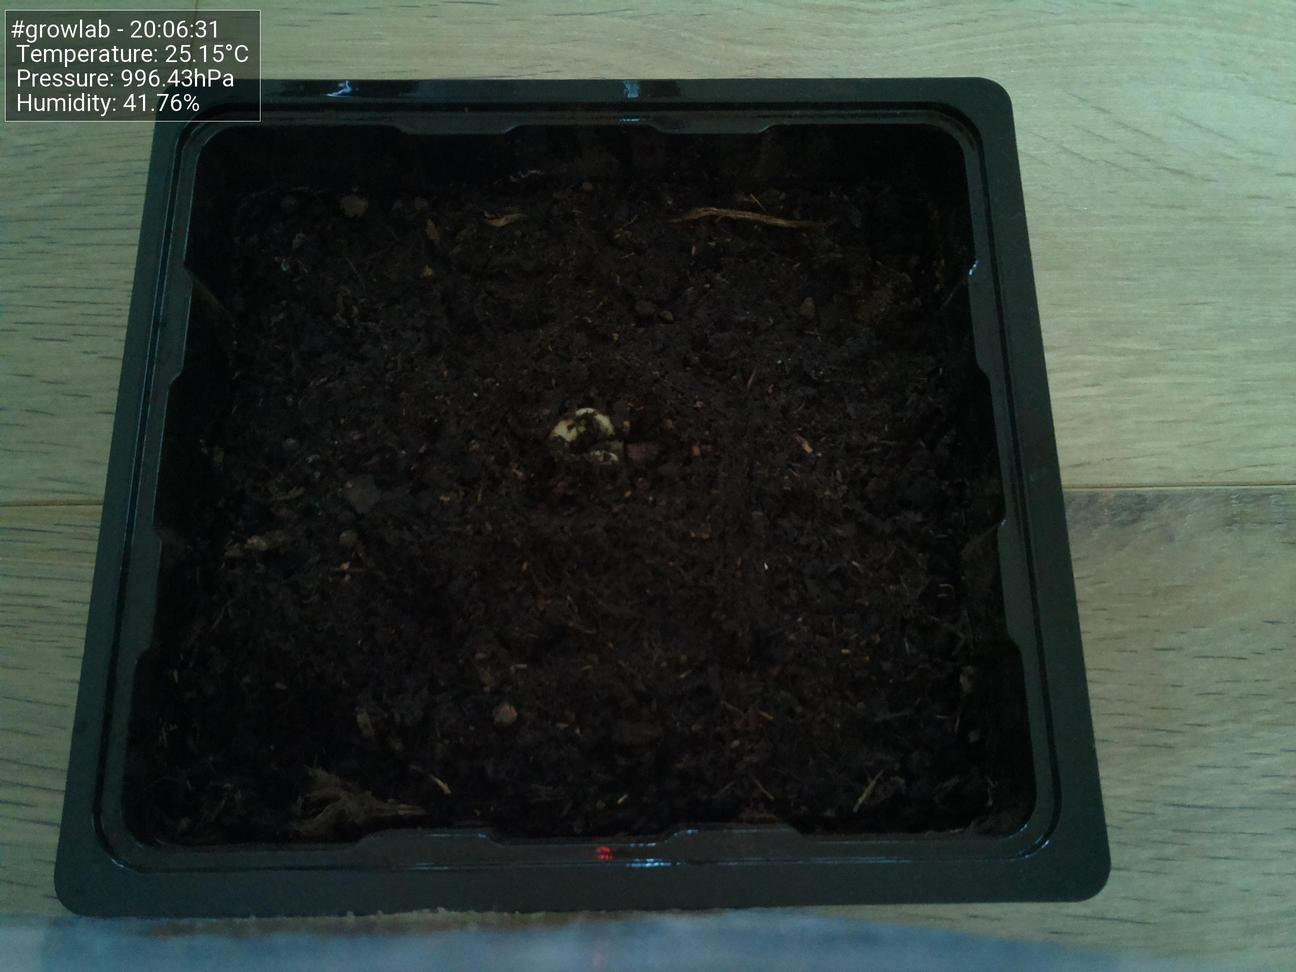
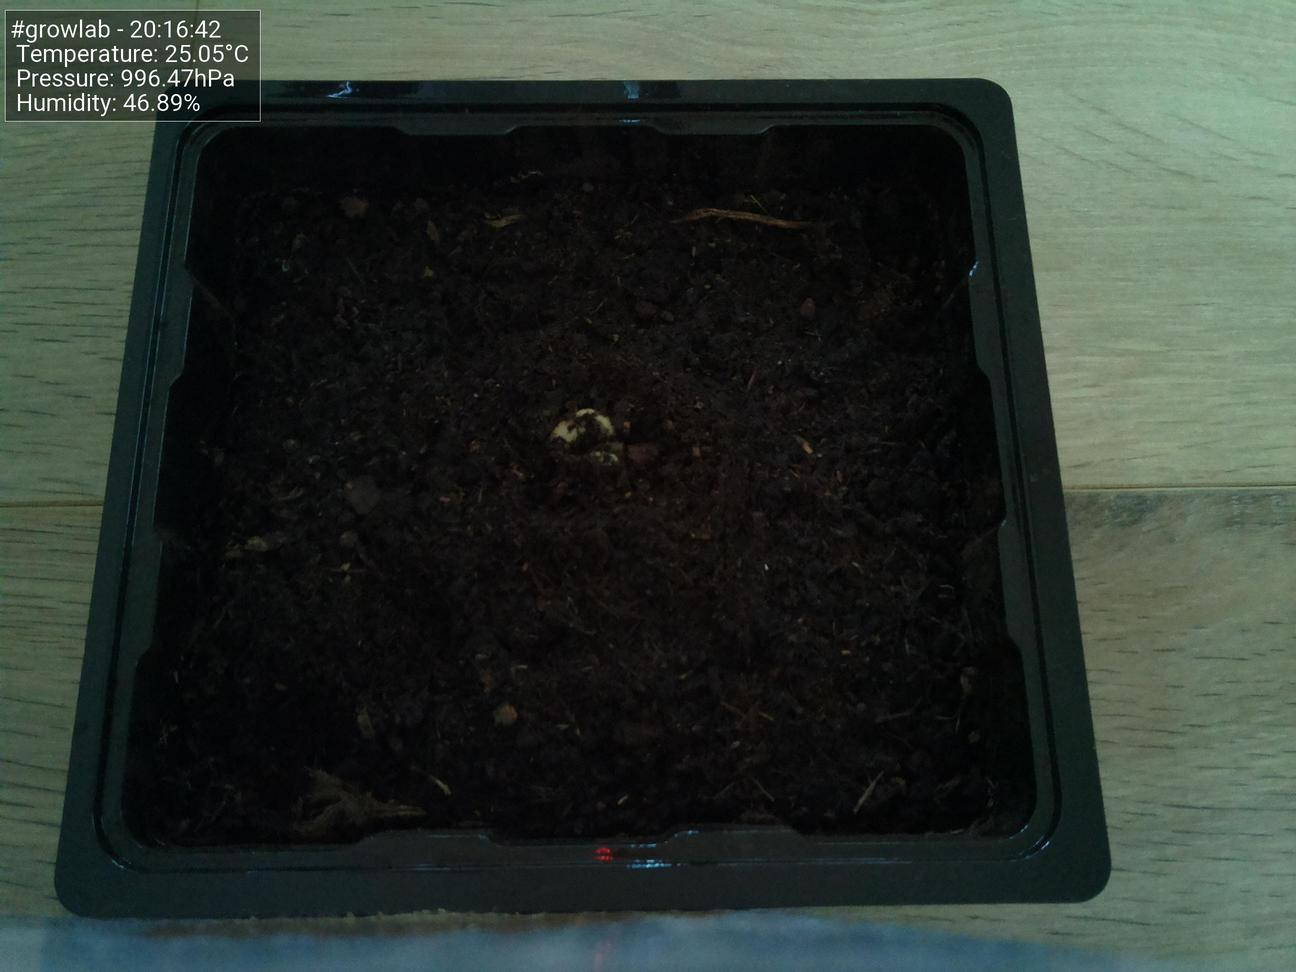
Update images at Wed  2 Jun 20:16:46 CEST 2021

Changed region(s): [[0.0926, 0.0, 0.1852, 0.1235], [0.4938, 0.8642, 0.5247, 0.8951], [0.2469, 0.0617, 0.2778, 0.0926]]

diff --git a/docs/index.html b/docs/index.html
@@ -47,19 +47,19 @@
                         <tbody>
                             <tr>
                                 <td>Time</td>
-                                <td>20:06:31</td>
+                                <td>20:16:42</td>
                             </tr>
                             <tr>
                                 <td>Temperature</td>
-                                <td>25.15°C</td>
+                                <td>25.05°C</td>
                             </tr>
                             <tr>
                                 <td>Humidity</td>
-                                <td>41.76%</td>
+                                <td>46.89%</td>
                             </tr>
                             <tr>
                                 <td>Pressure</td>
-                                <td>996.43hPa</td>
+                                <td>996.47hPa</td>
                             </tr>
                         </tbody>
                     </table>
@@ -67,7 +67,7 @@
 
                 <h5>Latest image</h5>
                 <div style="width: 85%;">
-                            <img class="figure-img img-fluid rounded" src="./preview.jpg?uid=1622657195.8269324">
+                            <img class="figure-img img-fluid rounded" src="./preview.jpg?uid=1622657806.709043">
                 </div>
             </div>
         </div>
